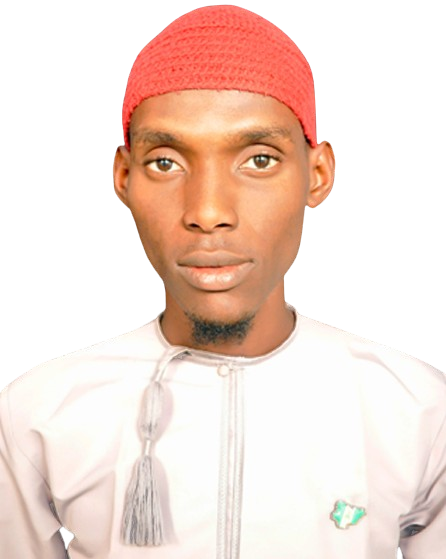
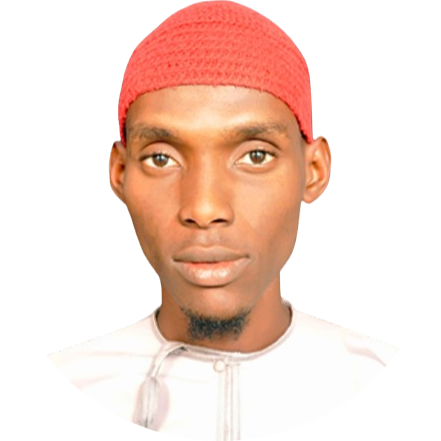
day 25 of #30DaysOfCode

diff --git a/index.html b/index.html
@@ -10,34 +10,21 @@
 
     <!-- web fonts -->
 
-    <!-- Merriweather -->
-    <link
-      href="https://fonts.googleapis.com/css2?family=Merriweather:ital,wght@0,300;0,400;0,700;0,900;1,300;1,400;1,700;1,900&display=swap"
-      rel="stylesheet"
-    />
-
-    <!-- Just Another Hand -->
     <link rel="preconnect" href="https://fonts.googleapis.com" />
     <link rel="preconnect" href="https://fonts.gstatic.com" crossorigin />
     <link
-      href="https://fonts.googleapis.com/css2?family=Just+Another+Hand&display=swap"
+      href="https://fonts.googleapis.com/css2?family=Merriweather:ital,wght@0,300;0,400;0,700;0,900;1,300;1,400;1,700;1,900&family=Montserrat:ital,wght@0,100..900;1,100..900&family=Ubuntu:ital,wght@0,300;0,400;0,500;0,700;1,300;1,400;1,500;1,700&display=swap"
       rel="stylesheet"
     />
 
-    <!-- Montserrat -->
-    <link rel="preconnect" href="https://fonts.googleapis.com" />
-    <link rel="preconnect" href="https://fonts.gstatic.com" crossorigin />
-    <link
-      href="https://fonts.googleapis.com/css2?family=Montserrat:ital,wght@0,100..900;1,100..900&display=swap"
-      rel="stylesheet"
-    />
+    <!-- cdn font awesome -->
 
-    <!-- Ubuntu -->
-    <link rel="preconnect" href="https://fonts.googleapis.com" />
-    <link rel="preconnect" href="https://fonts.gstatic.com" crossorigin />
     <link
-      href="https://fonts.googleapis.com/css2?family=Ubuntu:ital,wght@0,300;0,400;0,500;0,700;1,300;1,400;1,500;1,700&display=swap"
       rel="stylesheet"
+      href="https://cdnjs.cloudflare.com/ajax/libs/font-awesome/6.5.2/css/all.min.css"
+      integrity="sha512-SnH5WK+bZxgPHs44uWIX+LLJAJ9/2PkPKZ5QiAj6Ta86w+fsb2TkcmfRyVX3pBnMFcV7oQPJkl9QevSCWr3W6A=="
+      crossorigin="anonymous"
+      referrerpolicy="no-referrer"
     />
 
     <title>busybrain</title>
@@ -45,64 +32,93 @@
   <body>
     <div class="top-container">
       <div class="author">
-        <img src="./image/me.png" width="100" alt="me" class="me" />
         <div>
-          <h1>I'm Abdullahi Busybrain</h1>
-          <p>a web developer</p>
+          <h1 class="header">I'm Abdullahi Busybrain</h1>
+          <h2 class="job">a <em>web</em> developer</h2>
         </div>
-        <img src="./image/work.png" alt="work" class="work" width="150" />
+        <div>
+          <img src="./image/work.png" alt="work" class="work" />
+        </div>
       </div>
 
-      <img src="./image/family.png" alt="" width="600" />
+      <img src="./image/family.png" alt="" />
     </div>
 
     <div class="middle-container">
       <div class="profile">
-        <img src="" alt="" />
+        <img src="./image/me.png" alt="me" class="me" />
+
         <h2>Hello.</h2>
         <p>
-          Lorem ipsum dolor sit amet, vitae volutpat, dui conubia, dolor urna.
-          Non auctor, montes nulla distinctio.
+          "I'm <em>Abdullahi Busybrain</em>! Some call me a developer, but I see
+          myself more as a technology innovator. I'm passionate about using code
+          to turn creative ideas into solutions that make people's lives
+          easier."
         </p>
       </div>
       <hr />
       <div class="skills">
         <h2>My Skills.</h2>
         <div class="skill-row">
-          <img class="" src="" alt="" />
-          <h3>Lorem & Ipsum</h3>
+          <iframe
+            src="https://giphy.com/embed/fwbZnTftCXVocKzfxR"
+            width="100%"
+            height="100%"
+            frameborder="0"
+            class="giphy-embed"
+            allowfullscreen
+          ></iframe>
+
+          <h3>Design & Development</h3>
           <p>
-            Lorem ipsum dolor sit amet, quis in duis, iaculis id felis.
-            Consectetuer vestibulum, nunc urna lectus, erat ligula. Hendrerit
-            nam, lectus ante, ut lorem eros.
+            By seamlessly integrating aesthetics with functionality, my design
+            and development skills create user-centric digital experiences.
           </p>
         </div>
         <div class="skill-row">
           <img class="" src="" alt="" />
-          <h3>Lorem Ipsum Dolor</h3>
+          <h3>User Feedback Integration</h3>
           <p>
-            Lorem ipsum dolor sit amet, mauris sed consectetuer. Etiam et eu,
-            bibendum interdum, lacus quis mauris. Curabitur wisi, quisque vel
-            eu, rutrum nam.
+            By actively incorporating user feedback into the development
+            process, I ensure that the final product not only meets but exceeds
+            user expectations. This iterative approach allows me to make
+            data-driven improvements, resulting in a more intuitive, engaging,
+            and user-friendly experience. My commitment to listening to and
+            acting on user insights helps create digital solutions that truly
+            resonate with the target audience, ultimately enhancing satisfaction
+            and fostering loyalty.
           </p>
         </div>
       </div>
       <hr />
       <div class="contact-me">
         <h2>Get In Touch</h2>
-        <h3>Lorem ipsum dolor sit amet, non elit.</h3>
+        <h3>Let's Connect</h3>
         <p>
-          Lorem ipsum dolor sit amet, in quis, aenean amet. Phasellus sodales,
-          tellus donec dui, ornare erat.
+          I'm always eager to collaborate on new projects and connect with
+          fellow tech enthusiasts. Feel free to reach out to me via the
+          following channels:
         </p>
         <a class="btn" href="mailto:awwalhajine@gmail.com">CONTACT ME</a>
       </div>
     </div>
 
     <div class="bottom-container">
-      <a class="footer-link" href="https://www.linkedin.com/">LinkedIn</a>
-      <a class="footer-link" href="https://twitter.com/">Twitter</a>
-      <a class="footer-link" href="https://www.appbrewery.co/">Whatsapp</a>
+      <a
+        class="footer-link"
+        href="www.linkedin.com/in/abdullahi-auwal-haruna-3b298422b"
+        ><i class="fa-brands fa-linkedin"></i> LinkedIn</a
+      >
+      <a
+        class="footer-link"
+        href="https://x.com/abdul_busybrain?t=Q4EGYpUI8CJrh554nHmCDg&s=09"
+        ><i class="fa-brands fa-x-twitter"></i> Twitter</a
+      >
+      <a
+        class="footer-link"
+        href="https://api.whatsapp.com/message/ARXGDF4RLHUOM1?autoload=1&app_absent=0"
+        ><i class="fa-brands fa-whatsapp"></i> Whatsapp
+      </a>
       <p>© Abdullahi Auwal Haruna.</p>
     </div>
   </body>

diff --git a/css/style.css b/css/style.css
@@ -11,21 +11,52 @@ html {
 }
 
 body {
-  margin: 0;
+  margin: 0 auto;
+  width: 60%;
   font-size: 1.7rem;
   text-align: center;
   font-family: "Meriweather", serif;
   background-color: #eaf6f6;
 }
 
+.header {
+  line-height: 2;
+}
+
+.skill-row {
+  width: 50%;
+  margin: 10rem auto;
+  text-align: left;
+  line-height: 2;
+}
+
 h1 {
-  color: #66bfbf;
-  margin-top: 0;
+  margin-top: 5rem 0 0 0;
   font-family: "Ubuntu", cursive;
+  font-size: 9rem;
+}
+
+em {
+  text-decoration: underline;
+}
+
+.job {
+  font-weight: normal;
+}
+
+h1,
+h2 {
+  color: #66bfbf;
 }
 
 h2 {
+  font-size: 4rem;
   font-family: "Montserrat", sans-serif;
+}
+
+h3,
+a {
+  color: #11999e;
 }
 
 h3 {
@@ -36,27 +67,27 @@ h3 {
   padding-top: 10rem;
 }
 
-.me {
-  border-radius: 50%;
-  height: 10rem;
-}
-
 .top-work {
 }
 
 .author {
   display: flex;
   justify-content: center;
-  gap: 2rem;
 }
 
 .middle-container {
 }
 
 .bottom-container {
+  background-color: #66bfbf;
 }
 
 .work {
-  position: relative;
-  top: -10rem;
+}
+
+.giphy-embed {
+  width: 25%;
+  float: left;
+  clear: right;
+  border: 2px solid red;
 }
